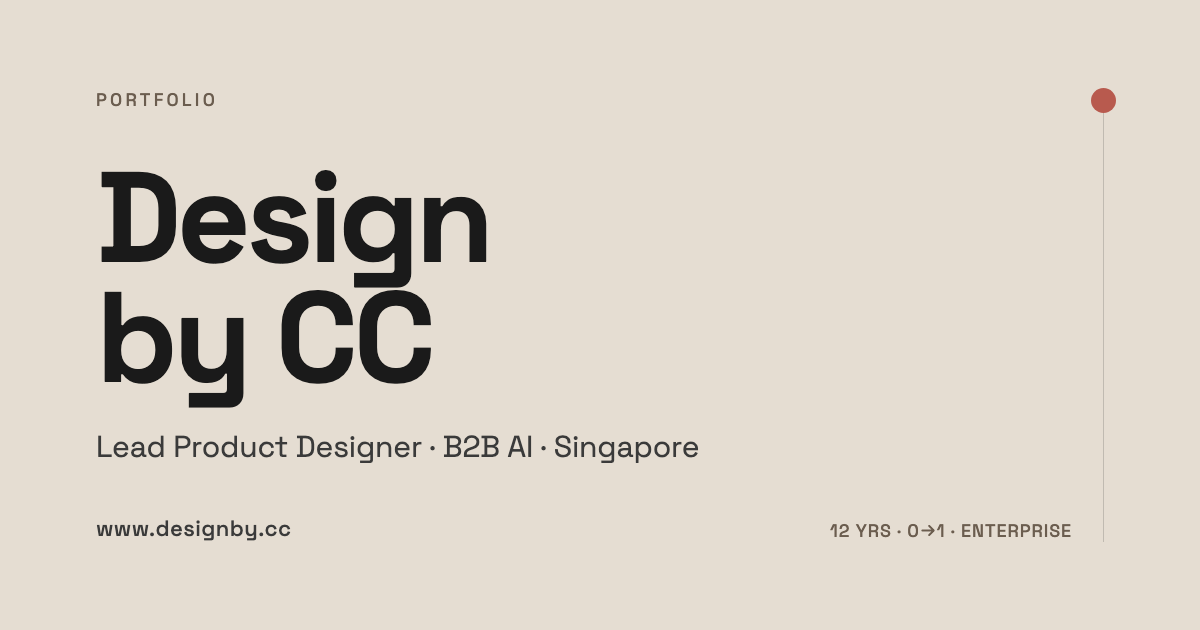
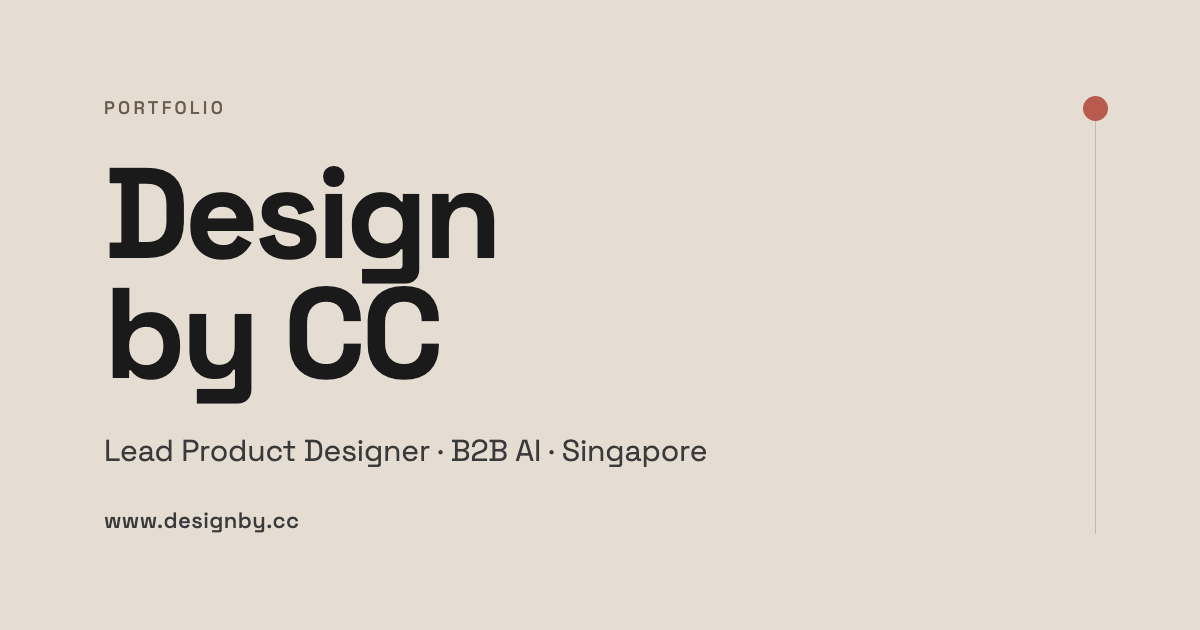
Refine OG images — add (CC) on resume, drop Trustana, declutter (#27)
Updates to the social-share images for a cleaner minimal aesthetic:
- Resume: add "(CC)" trailing the name in a smaller, lighter weight
  as a parenthetical aside; drop "Trustana" from the role so the
  resume reads as employer-agnostic (it should outlive any current
  role).
- Both: remove the bottom-right meta stat ("12 YRS · 0→1 · …") that
  was the busiest element — far more breathing room without it.
- Keep eyebrow, vertical rule, and terracotta dot (the minimal brand
  markers that make both images read as the same set).
- Update og:image:alt on resume.html to match the new visible content.

diff --git a/public/resume.html b/public/resume.html
@@ -25,7 +25,7 @@
 <meta property="og:image" content="https://www.designby.cc/og-resume.png">
 <meta property="og:image:width" content="1200">
 <meta property="og:image:height" content="630">
-<meta property="og:image:alt" content="Teo Choong Ching — Lead Product Designer at Trustana (B2B AI, Singapore)">
+<meta property="og:image:alt" content="Teo Choong Ching (CC) — Lead Product Designer, Singapore">
 
 <!-- Twitter Card -->
 <meta name="twitter:card" content="summary_large_image">
